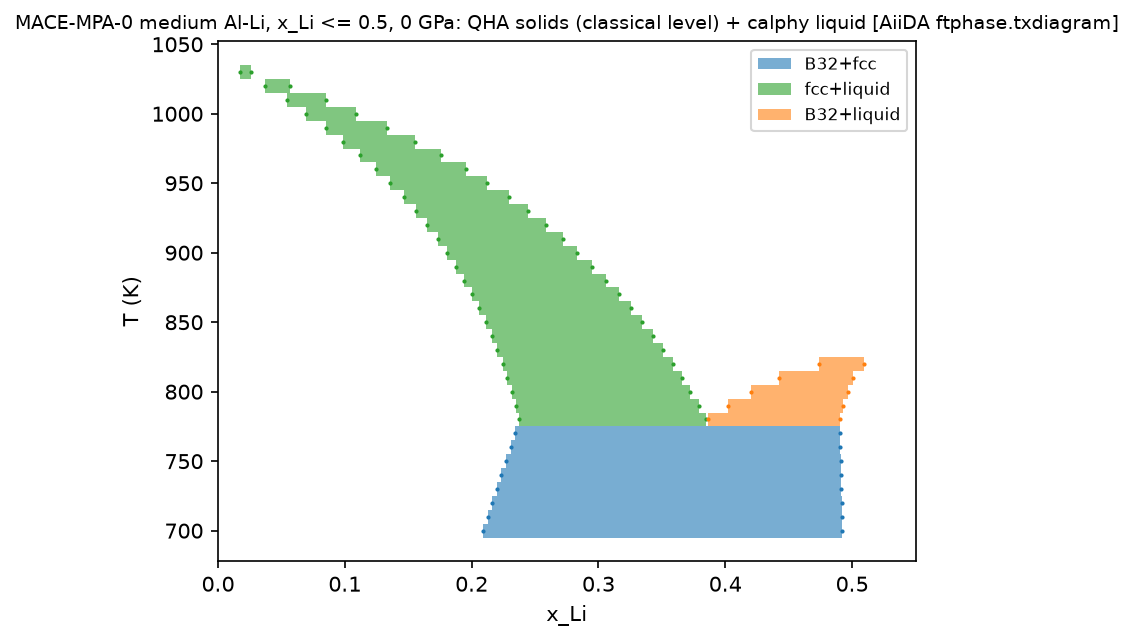
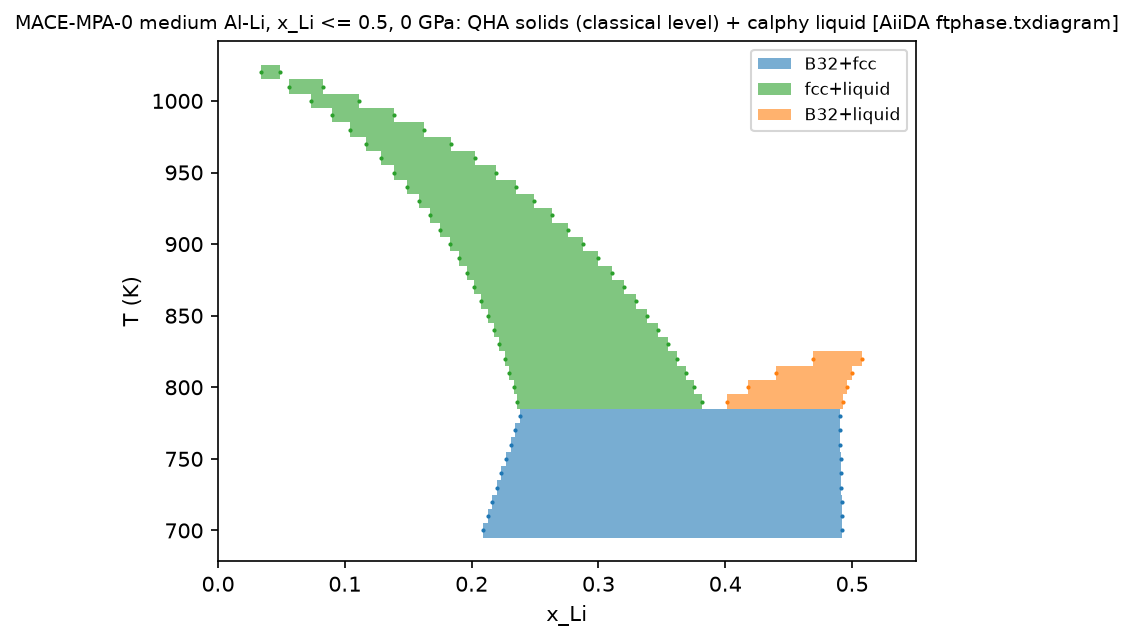
MACE-MPA-0 ML-IAP (cuEquivariance) production pk 8481 results; PR #5301 reply draft on init-time comm_forward
pk 8481 replaces the pair_style-mace run pk 4293 in out/alli_mace_mpa_0: Al crossing 1032 K
(was 1038), invariants 780-790 / 820-830 K (770-780 / 820-830), fcc solvus 0.209 at 700 K
(same), S(300 K) 3.64 (same): identical within seed noise.

diff --git a/ftphase/examples/aiida_txdiagram/out/alli_mace_mpa_0/REPORT.md b/ftphase/examples/aiida_txdiagram/out/alli_mace_mpa_0/REPORT.md
@@ -1,37 +1,36 @@
 # MACE-MPA-0 medium Al-Li, x_Li <= 0.5, 0 GPa: QHA solids (classical level) + calphy liquid [AiiDA ftphase.txdiagram] (AiiDA workflow ftphase.txdiagram)
 
-Assembled 2026-10-28 22:54:19.  Classical level, 0.0 GPa, model MACE-MPA-0 medium (float32).
+Assembled 2026-11-05 20:45:15.  Classical level, 0.0 GPa, model MACE-MPA-0 medium (float32, ML-IAP, cuEquivariance).
 
 ## Inputs
 
 * solids (QHA, lowered to the classical level): 13 cells used, missing []
 * liquids (calphy reversible scaling): 6 runs used, missing []; runs per x {'0.0000': 1, '0.1016': 1, '0.1992': 1, '0.3008': 1, '0.3984': 1, '0.5000': 1}
 * configurational terms: {'fcc': 'ideal', 'B32': 'sublattice:b32_antisite'}; fits: {'fcc': 'poly', 'liquid': 'poly', 'B32': 'spline'} (poly = excess over analytic ideal mixing)
-* temperature grid: [700.0, 1100.0, 41] (K, min, max, points); sigma (eV/atom): {'fcc': 0.002, 'liquid': 0.0014, 'Al3Li': 0.002, 'B32': 0.002}
+* temperature grid: [700.0, 1100.0, 41] (K, min, max, points); sigma (eV/atom): {'Al3Li': 0.002, 'liquid': 0.0014, 'B32': 0.002, 'fcc': 0.002}
 
 ## Key numbers
 
-* lowest temperature with liquid on the grid: 780 K; coexistences: fcc(0.238) + liquid(0.385); liquid(0.386) + B32(0.490)
-* pure-A melting bracket (x < 0.02): 1030-1040 K
+* lowest temperature with liquid on the grid: 790 K; coexistences: fcc(0.236) + liquid(0.382); liquid(0.401) + B32(0.493)
 * invariant reactions:
-  * 770-780 K: ['B32+fcc'] -> ['B32+liquid', 'fcc+liquid']
+  * 780-790 K: ['B32+fcc'] -> ['B32+liquid', 'fcc+liquid']
   * 820-830 K: ['B32+liquid', 'fcc+liquid'] -> ['fcc+liquid']
 * two-phase regions at 700 K: fcc(0.209)-B32(0.492)
-* two-phase regions at 800 K: fcc(0.231)-liquid(0.372); liquid(0.420)-B32(0.496)
-* two-phase regions at 900 K: fcc(0.180)-liquid(0.283)
-* two-phase regions at 1000 K: fcc(0.069)-liquid(0.109)
+* two-phase regions at 800 K: fcc(0.233)-liquid(0.375); liquid(0.418)-B32(0.496)
+* two-phase regions at 900 K: fcc(0.183)-liquid(0.288)
+* two-phase regions at 1000 K: fcc(0.073)-liquid(0.112)
 
 ## Error bands (Monte Carlo over per-phase offsets)
 
-* 700 K fcc+B32: x_a = 0.209 +/- 0.011, x_b = 0.492 +/- 0.002 (30/30 samples)
-* 800 K fcc+B32: x_a = 0.242 +/- 0.010, x_b = 0.489 +/- 0.004 (3/30 samples)
-* 800 K fcc+liquid: x_a = 0.229 +/- 0.011, x_b = 0.370 +/- 0.016 (27/30 samples)
-* 800 K liquid+B32: x_a = 0.429 +/- 0.036, x_b = 0.500 +/- 0.015 (27/30 samples)
-* 900 K fcc+liquid: x_a = 0.180 +/- 0.019, x_b = 0.282 +/- 0.026 (30/30 samples)
+* 700 K fcc+B32: x_a = 0.206 +/- 0.011, x_b = 0.492 +/- 0.002 (30/30 samples)
+* 800 K fcc+B32: x_a = 0.240 +/- 0.011, x_b = 0.488 +/- 0.004 (6/30 samples)
+* 800 K fcc+liquid: x_a = 0.228 +/- 0.015, x_b = 0.369 +/- 0.020 (24/30 samples)
+* 800 K liquid+B32: x_a = 0.419 +/- 0.028, x_b = 0.497 +/- 0.009 (24/30 samples)
+* 900 K fcc+liquid: x_a = 0.181 +/- 0.025, x_b = 0.285 +/- 0.036 (30/30 samples)
 * 900 K liquid+B32: x_a = 0.500 +/- 0.000, x_b = 0.562 +/- 0.000 (30/30 samples)
 
 ## Caveats
 
 * table check: ["mixed quantum/classical treatment: ['classical', 'classical+harmonic-correction'] (see ftphase.quantum)"]
-* fit residuals at 900 K: [{'T': 900.0, 'phase': 'B32', 'rmse_eV': 0.0, 'flag': False}, {'T': 900.0, 'phase': 'fcc', 'rmse_eV': 0.00034091984711318794, 'flag': False}, {'T': 900.0, 'phase': 'liquid', 'rmse_eV': 0.00014727868727369892, 'flag': False}]
+* fit residuals at 900 K: [{'T': 900.0, 'phase': 'B32', 'rmse_eV': 0.0, 'flag': False}, {'T': 900.0, 'phase': 'fcc', 'rmse_eV': 0.00034286383941900414, 'flag': False}, {'T': 900.0, 'phase': 'liquid', 'rmse_eV': 9.89381897425082e-05, 'flag': False}]
 * every number is on the classical level of the potential; compare with experiment only after the quantum correction and potential error are accounted for.

diff --git a/env/patches/lammps-pr-comm_brick-reply2.md b/env/patches/lammps-pr-comm_brick-reply2.md
@@ -1,0 +1,29 @@
+# Reply to sjplimp's question on lammps/lammps#5301 (why not set comm_forward to the max at init and pass isize) -- paste as a PR comment
+
+Thanks for looking at it. You are right about the design: a style sets `comm_forward` to the largest width it will ever use and passes
+a smaller `isize` per call. The problem is that `pair mliap/kk` cannot know that maximum at `init()`:
+
+- With `pair_style mliap unified <model.pt>` the width is chosen by the user's Python model at run time. Each call to
+  `forward_exchange(copy_from, copy_to, vec_len)` from Python (`src/KOKKOS/mliap_unified_couple_kokkos.pyx`) lands in
+  `PairMLIAPKokkos::forward_comm()`, which does `comm_forward = vec_len = vl;` and then `comm->forward_comm(this)`
+  (`src/KOKKOS/pair_mliap_kokkos.cpp`). The pair style never sets `comm_forward` in `init()`, so `Comm::init()` records 0 for it,
+  and the first exchange with any width runs against buffers that were sized for other needs.
+- A message-passing model may exchange several widths within one force call (node features of one layer, then another layer,
+  then edge quantities in the reverse pass), and the widths depend on the model architecture: 64 to 256 doubles per atom in the
+  models we ran (MatterSim, MACE-MPA-0, NequIP-OAM), and nothing in the `MLIAPUnified` interface tells the pair style the largest
+  one in advance. A hard-coded value such as 256 would be an arbitrary bound: a model with wider features would overflow silently
+  again, and every run would allocate 256 doubles per atom for the atom exchange even when the model needs 4.
+- The Kokkos device path already handles this on demand: `CommKokkos::forward_comm_device(Pair*)` takes the maximum of
+  `nsize*sendnum[iswap]` and `nsize*recvnum[iswap]` over the swaps on every call and calls `grow_buf_pair()` when it is larger
+  than `max_buf_pair` (`src/KOKKOS/comm_kokkos.cpp`). That is why the GPU runs were correct. The host path in `CommBrick`/`CommTiled`
+  (reached with a Kokkos Serial/OpenMP build, or with `comm host`) is the only place that still trusts the init-time value, so the
+  PR makes the two paths consistent rather than introducing a new mechanism.
+
+On the cost: in the current version the checks are two integer comparisons per call in `CommTiled` (against the bounds
+`borders()` already keeps) and two per swap in `CommBrick`, i.e. at most ~12 comparisons per `forward_comm(Pair*)` call, next to
+packing `nsize*sendnum` doubles per swap. The device path pays the same per-swap `MAX` loop today.
+
+If you would rather keep the host path strictly init-sized, the alternative is an interface change in ML-IAP: have the unified
+model declare its maximum exchange width when it is loaded (an attribute on the Python object that `PairMLIAPKokkos::init_style()`
+copies into `comm_forward`/`comm_reverse`), and then pass `isize` per call. That changes the contract for every model exporter
+(MACE, NequIP/Allegro, MatterSim, SevenNet), so I kept it out of this fix, but I can open it as a follow-up if you prefer that route.
